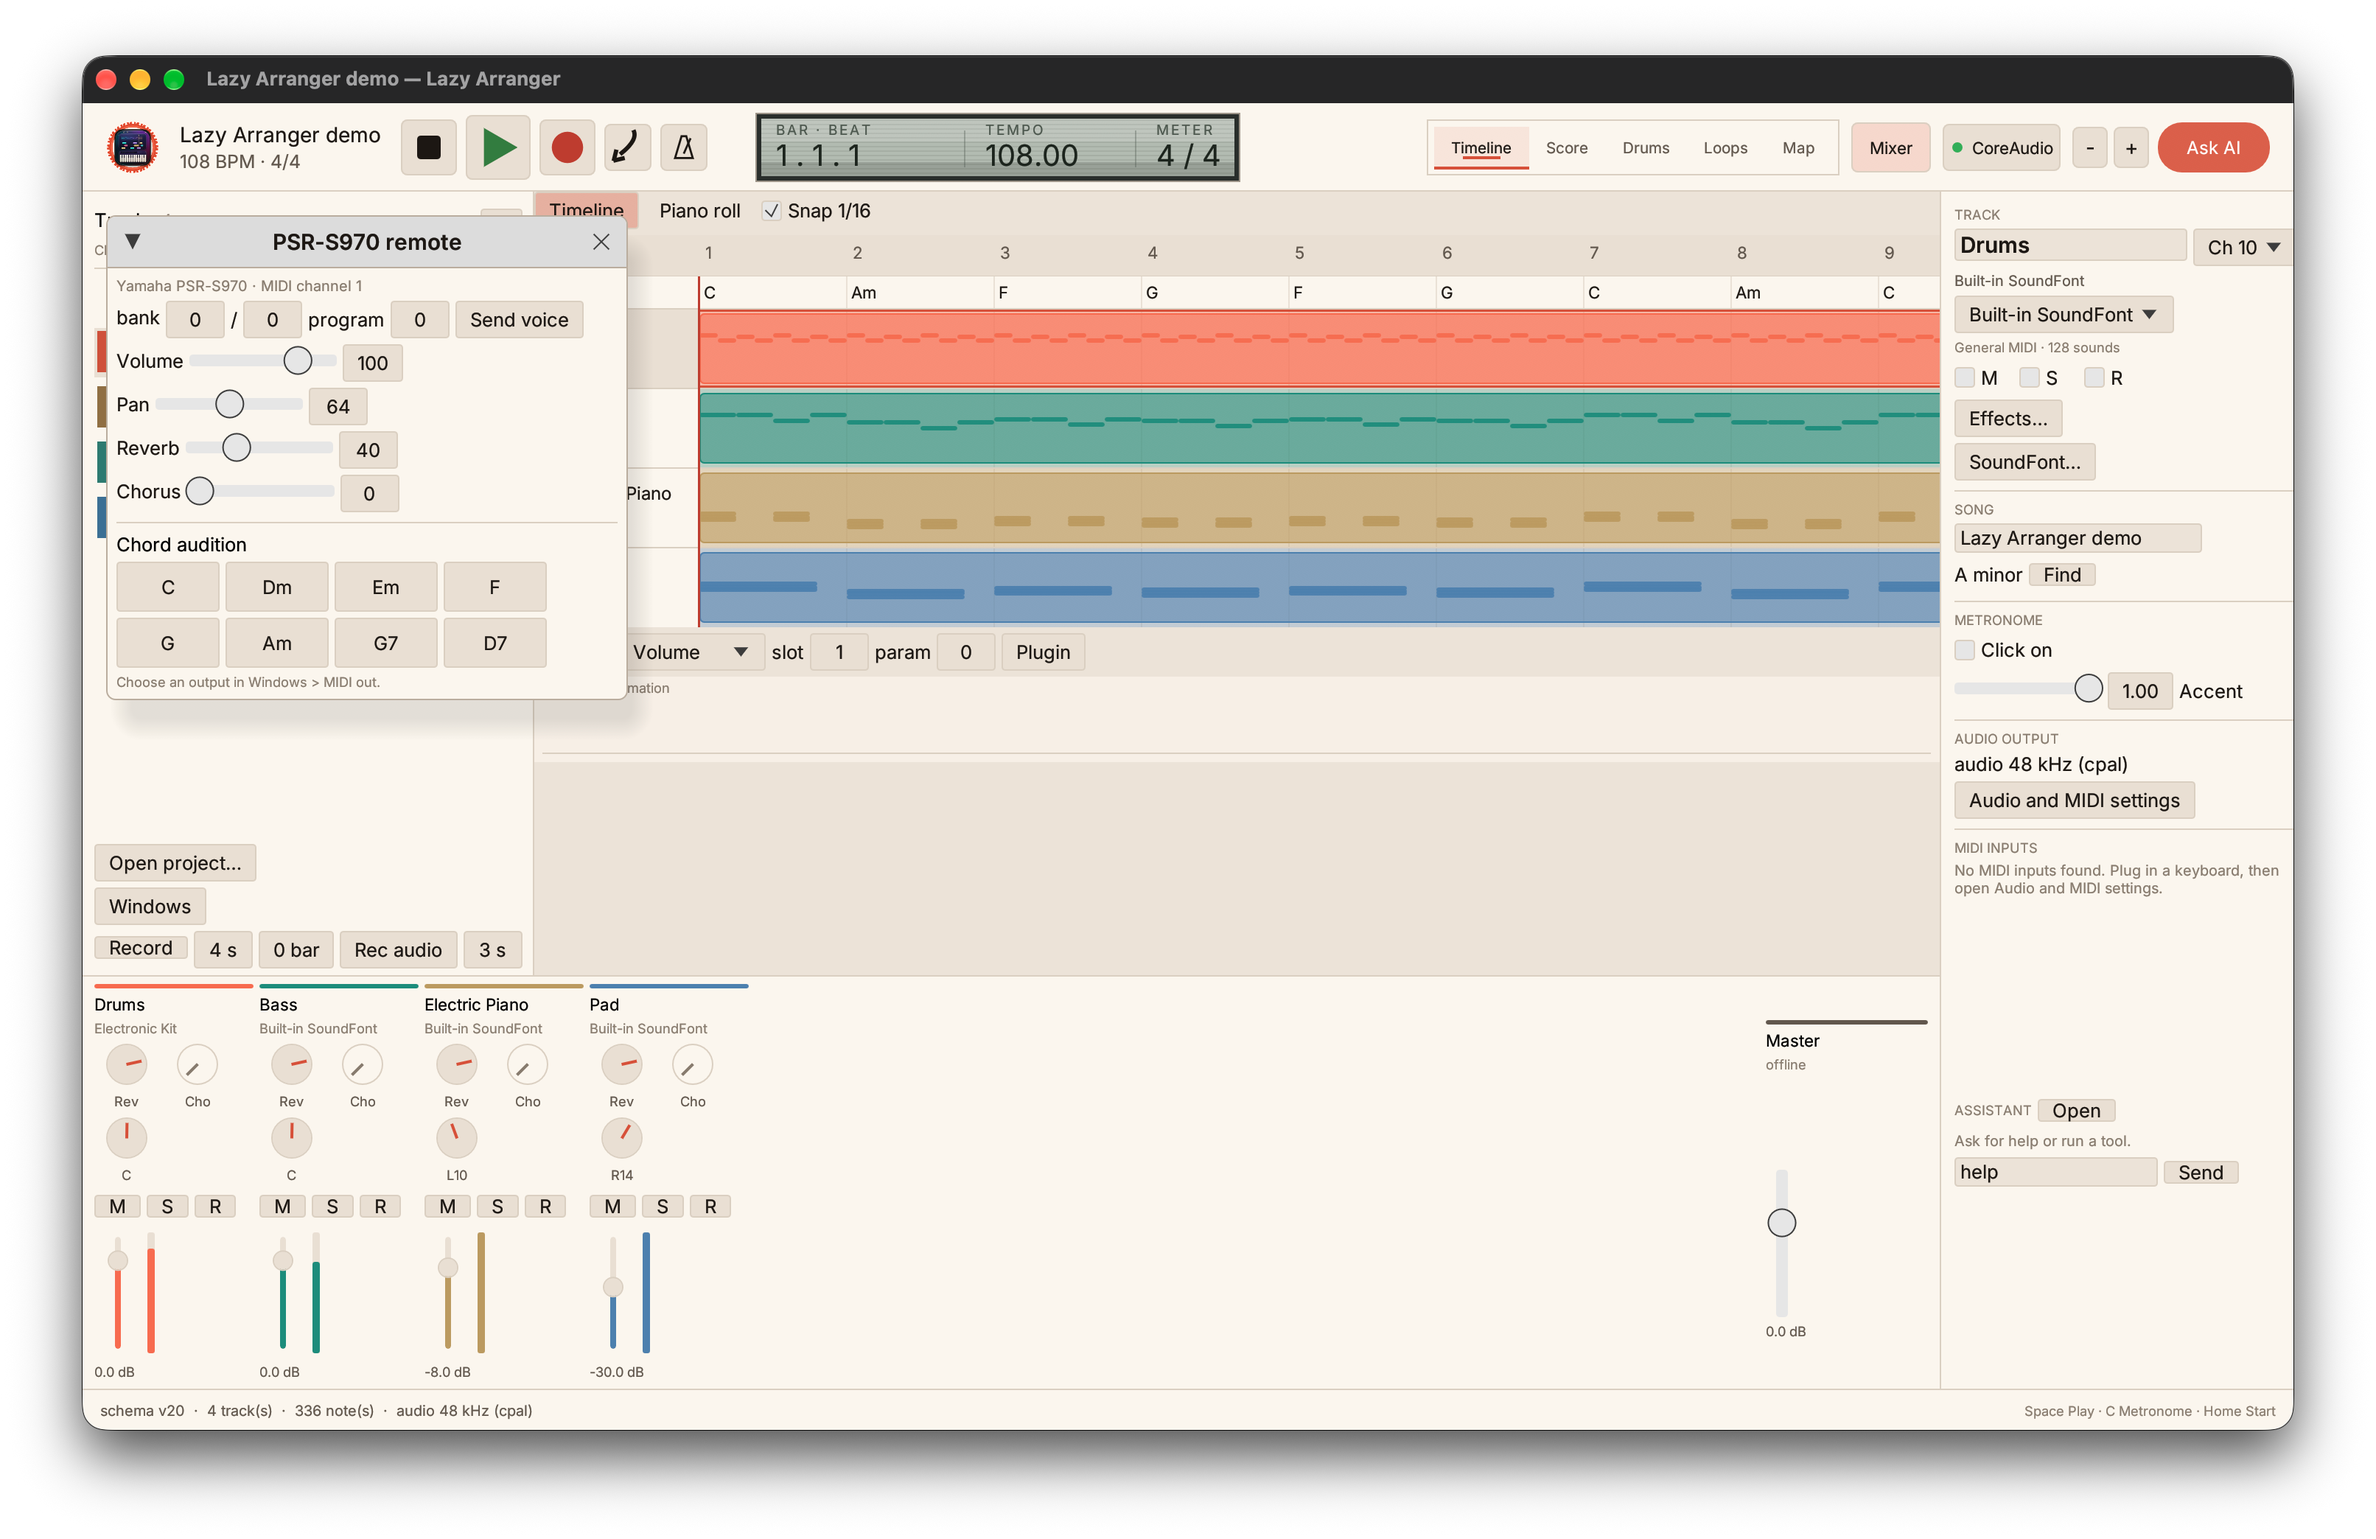
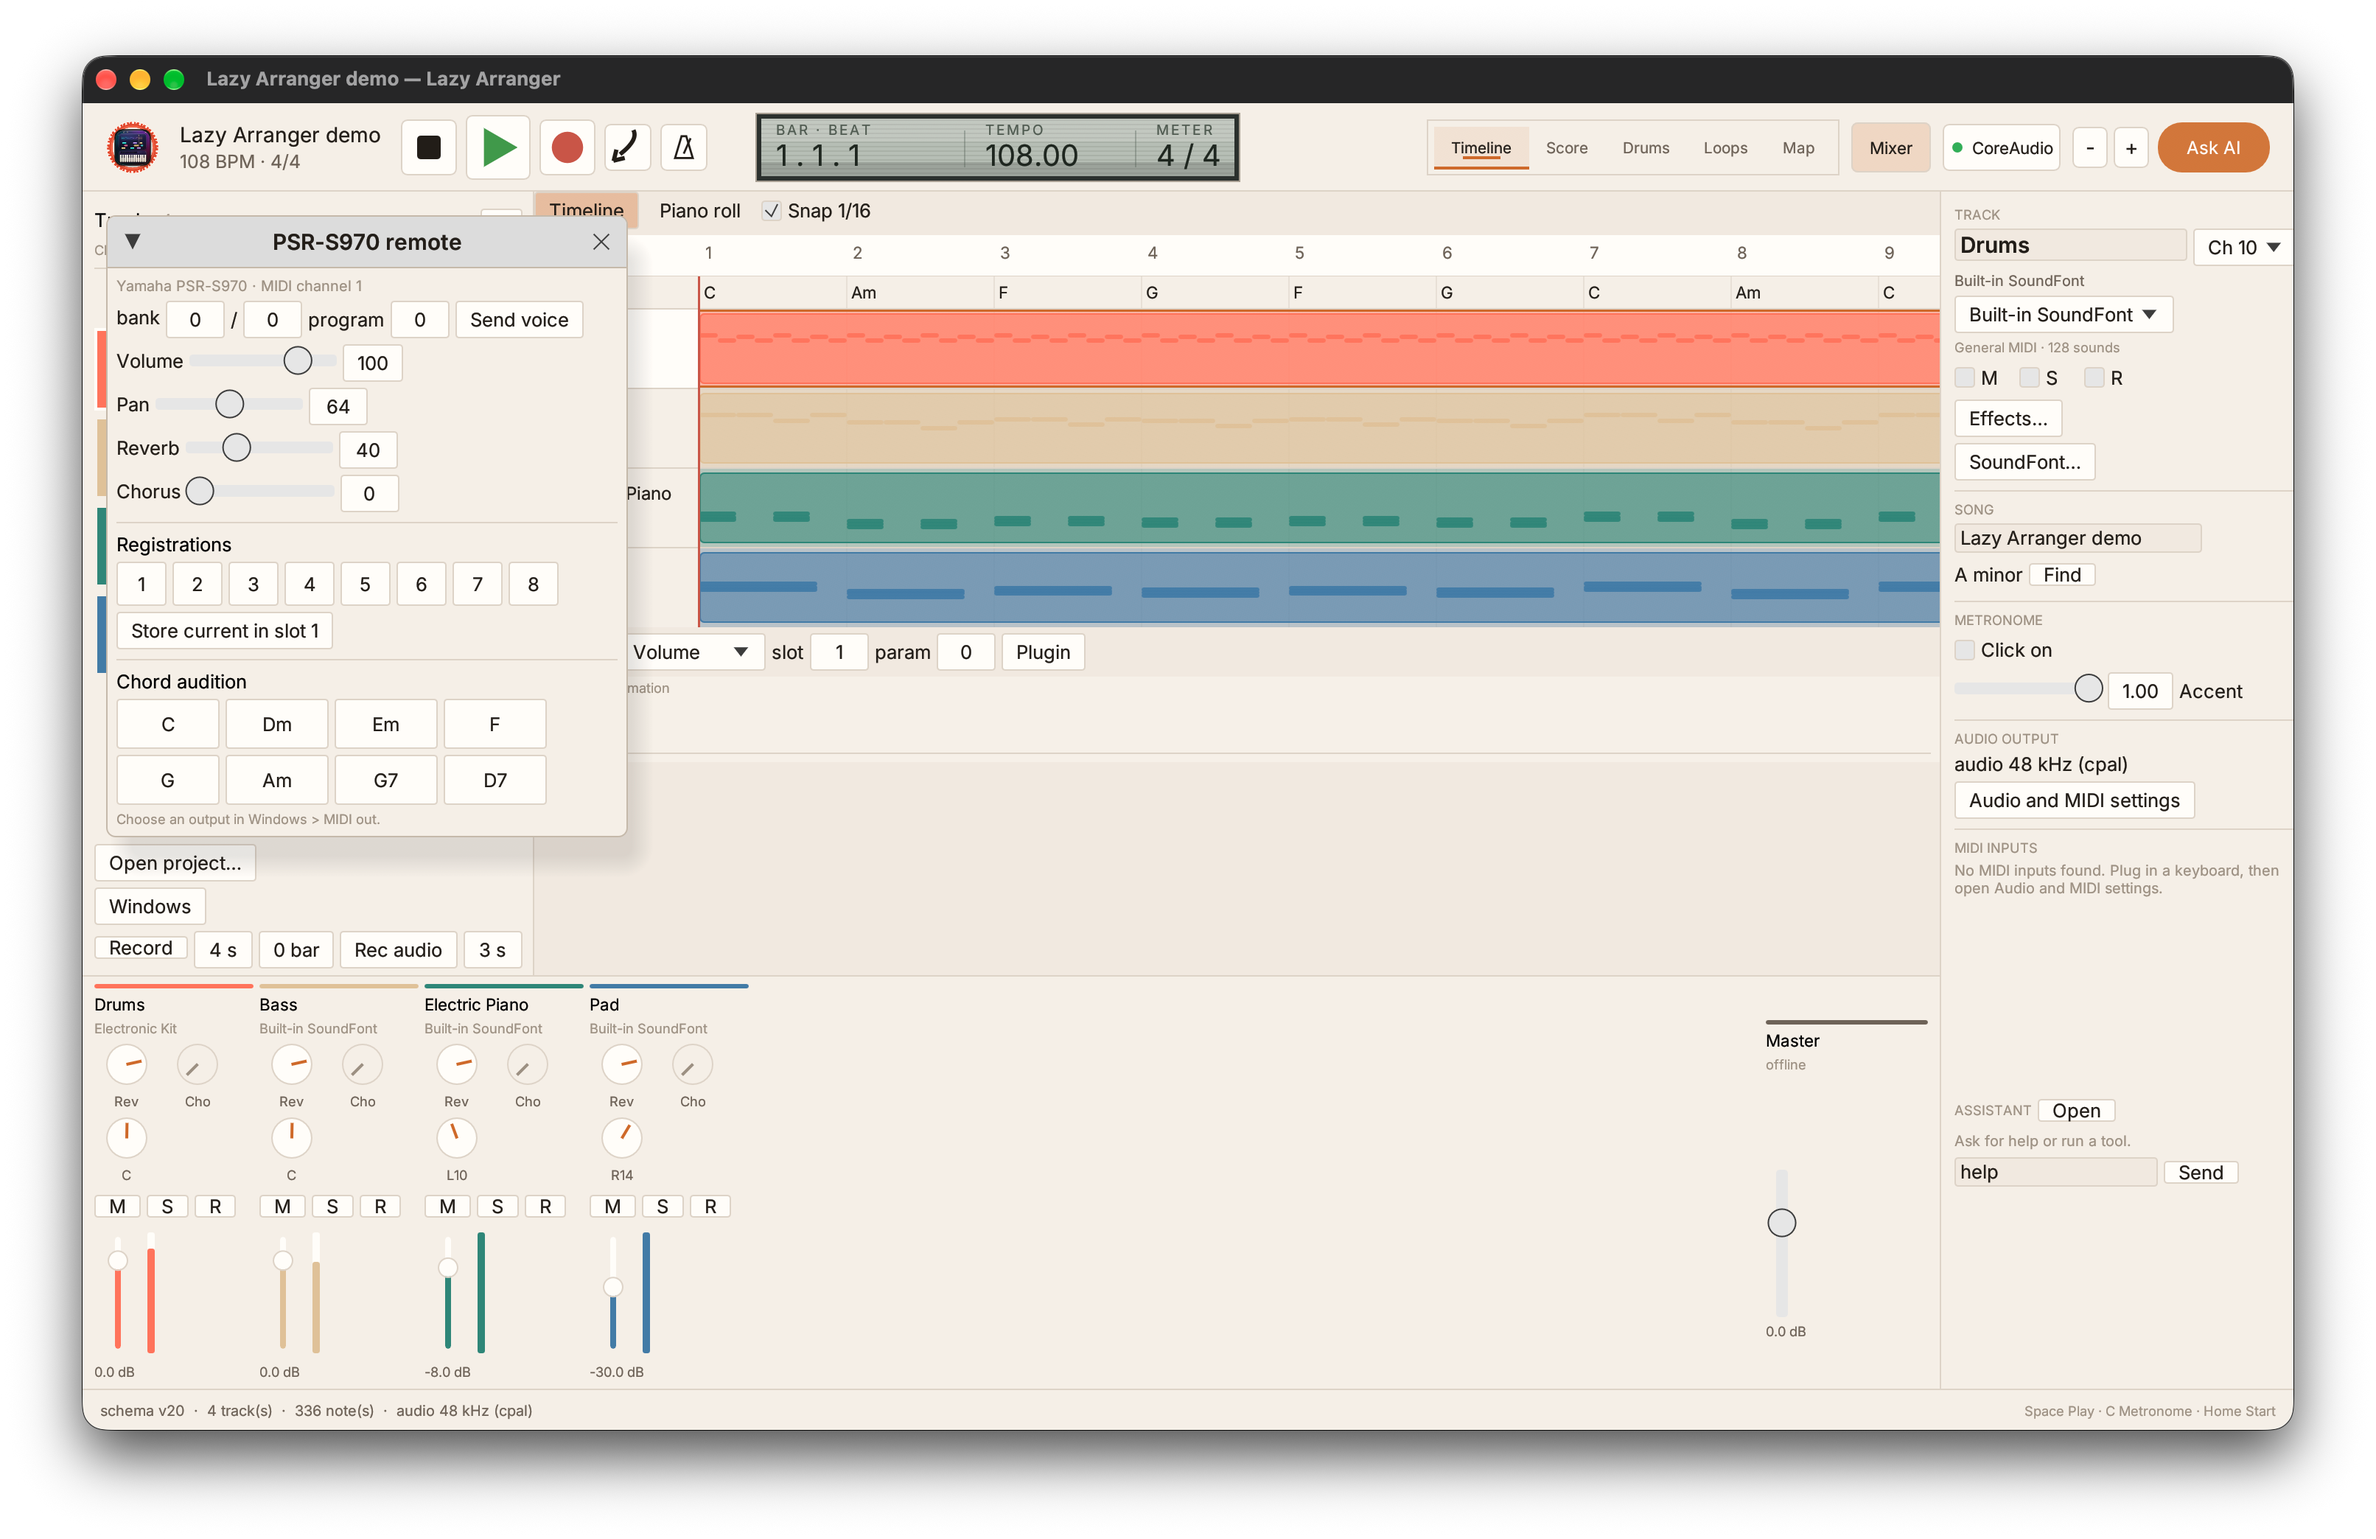
feat(psr): add eight registration slots
Stores/recalls voice, channel and CC state in memory; right-click a slot to store
and left-click to recall/send.

714 tests pass; clippy, fmt and rustdoc clean.

diff --git a/apps/desktop/src/app.rs b/apps/desktop/src/app.rs
@@ -114,6 +114,18 @@ impl AuEditorUnit {
 }
 
 /// One row of the track list, snapshotted before drawing so the borrow ends.
+#[derive(Clone, Copy, Debug, Default)]
+struct PsrRegistration {
+    channel: u8,
+    bank_msb: u8,
+    bank_lsb: u8,
+    program: u8,
+    volume: u8,
+    pan: u8,
+    reverb: u8,
+    chorus: u8,
+}
+
 struct Row {
     index: usize,
     id: TrackId,
@@ -627,6 +639,7 @@ pub struct ShellApp {
     psr_pan: u8,
     psr_reverb: u8,
     psr_chorus: u8,
+    psr_regs: [PsrRegistration; 8],
     midi_out_cc_value: u8,
     midi_out_bank_msb: u8,
     midi_out_bank_lsb: u8,
@@ -900,6 +913,7 @@ impl ShellApp {
             psr_pan: 64,
             psr_reverb: 40,
             psr_chorus: 0,
+            psr_regs: [PsrRegistration::default(); 8],
             midi_out_cc_value: 100,
             midi_out_bank_msb: 0,
             midi_out_bank_lsb: 0,
@@ -2924,6 +2938,77 @@ impl ShellApp {
         });
     }
 
+    fn psr_send_state(&mut self) {
+        let Ok(channel) = music_core::Channel::from_one_based(self.psr_channel) else {
+            return;
+        };
+        if let (Ok(msb), Ok(lsb)) = (
+            music_core::ControlNumber::new(0),
+            music_core::ControlNumber::new(32),
+        ) {
+            self.send_midi(music_core::MidiMessage::ControlChange {
+                channel,
+                controller: msb,
+                value: self.psr_bank_msb,
+            });
+            self.send_midi(music_core::MidiMessage::ControlChange {
+                channel,
+                controller: lsb,
+                value: self.psr_bank_lsb,
+            });
+        }
+        self.send_midi(music_core::MidiMessage::ProgramChange {
+            channel,
+            program: self.psr_program,
+        });
+        for (value, controller) in [
+            (self.psr_volume, 7_u8),
+            (self.psr_pan, 10),
+            (self.psr_reverb, 91),
+            (self.psr_chorus, 93),
+        ] {
+            if let Ok(control) = music_core::ControlNumber::new(controller) {
+                self.send_midi(music_core::MidiMessage::ControlChange {
+                    channel,
+                    controller: control,
+                    value,
+                });
+            }
+        }
+    }
+
+    fn psr_store(&mut self, index: usize) {
+        if index >= self.psr_regs.len() {
+            return;
+        }
+        self.psr_regs[index] = PsrRegistration {
+            channel: self.psr_channel,
+            bank_msb: self.psr_bank_msb,
+            bank_lsb: self.psr_bank_lsb,
+            program: self.psr_program,
+            volume: self.psr_volume,
+            pan: self.psr_pan,
+            reverb: self.psr_reverb,
+            chorus: self.psr_chorus,
+        };
+        self.status = Some(format!("PSR registration {}", index + 1));
+    }
+
+    fn psr_recall(&mut self, index: usize) {
+        let Some(reg) = self.psr_regs.get(index).copied() else {
+            return;
+        };
+        self.psr_channel = reg.channel.max(1);
+        self.psr_bank_msb = reg.bank_msb;
+        self.psr_bank_lsb = reg.bank_lsb;
+        self.psr_program = reg.program;
+        self.psr_volume = reg.volume;
+        self.psr_pan = reg.pan;
+        self.psr_reverb = reg.reverb;
+        self.psr_chorus = reg.chorus;
+        self.psr_send_state();
+    }
+
     fn psr_window(&mut self, context: &Context) {
         if !self.psr_open {
             return;
@@ -2998,6 +3083,28 @@ impl ShellApp {
                             });
                         }
                     }
+                }
+                ui.separator();
+                ui.label(egui::RichText::new("Registrations").strong());
+                ui.horizontal(|ui| {
+                    for index in 0..8 {
+                        let response =
+                            ui.add_sized([34.0, 30.0], egui::Button::new((index + 1).to_string()));
+                        if response.clicked() {
+                            self.psr_recall(index);
+                        }
+                        if response.secondary_clicked() {
+                            self.psr_store(index);
+                        }
+                        response.on_hover_text("Click to recall; right-click to store");
+                    }
+                });
+                if ui
+                    .button("Store current in slot 1")
+                    .on_hover_text("Right-click a number above to store in that slot")
+                    .clicked()
+                {
+                    self.psr_store(0);
                 }
                 ui.separator();
                 ui.label(egui::RichText::new("Chord audition").strong());

diff --git a/docs/audit/cpp-features-crosscheck.md b/docs/audit/cpp-features-crosscheck.md
@@ -30,7 +30,7 @@ section below is a row, so nothing is skipped. Status: **verified**,
 | 21 | MIDI devices and profiles | partial | One built-in PSR-S970 voice subset plus a YAML-subset loader (id, name, voices, banks, drum kits) with validation and keyword matching (`device-profile` resolved Finger Bass to 33); port enumeration, live input, CLI record/echo. Bank and drum-kit entries drive `export-keyboard --profile`: bank select MSB/LSB is written before each program, drums use the kit program and bank (audit: msb [63,0,0,0], lsb [0,1,1,1]). The Controllers window keeps the last 16 decoded note/CC/program/bend messages; no other devices or profile overrides |
 | 22 | Synth sound editors (D-05, XioSynth, S970 XG, L6max), sysex dumps | partial | A per-track synth patch (sine/saw/square/triangle, attack, decay, sustain, release, brightness) in schema v14, honoured by the render, edited through one undoable command, and exposed by a Synth patch window with Apply/Default/Clear (capture `docs/audit/synth-patch.png`). A generic Yamaha parameter-change builder with the 7-bit checksum and an XG System On dump (`sysex-xg-on`, 10 bytes written). No device-specific panels (D-05, XioSynth, S970 XG) or patch dumps |
 | 23 | Controller pages, MIDI Map, MIDI Learn, channel check | partial | MIDI map model with text persistence, learn capture, CLI bind/show, live application of play/stop/undo/scene/fader/pad, a MIDI map window that chooses an action, learns the next note/CC, saves automatically and clears bindings (with inline hints), `midi-channel-check` sends note-on/off on a chosen channel, and a Controllers window lists CC bindings with live values, starts a learn session and saves it. No MIDI ports were available here, so live values and the send remain hardware-unverified |
-| 24 | PSR-S970 tools | partial | Song export with setup bar, program, volume, pan, chord markers, lyrics and drums on channel 10, plus a byte-level audit that re-parses the file; the demo exported 5 tracks, 4 programs/volumes/pans, 16 chord markers and 128 drum notes. Numbered style catalog and `style-by-number` rendering. A MIDI out window sends program changes, bank select, CC, notes, chords, panic and start/continue/stop to a chosen output, persists the output choice (`docs/audit/midi-out.png`); a PSR-S970 remote sends voice bank/program, volume, pan, reverb, chorus and chord auditions (`docs/audit/psr-remote.png`); no registration memory, audition queue or hardware verification |
+| 24 | PSR-S970 tools | partial | Song export with setup bar, program, volume, pan, chord markers, lyrics and drums on channel 10, plus a byte-level audit that re-parses the file; the demo exported 5 tracks, 4 programs/volumes/pans, 16 chord markers and 128 drum notes. Numbered style catalog and `style-by-number` rendering. A MIDI out window sends program changes, bank select, CC, notes, chords, panic and start/continue/stop to a chosen output, persists the output choice (`docs/audit/midi-out.png`); a PSR-S970 remote sends voice bank/program, volume, pan, reverb, chorus and chord auditions (`docs/audit/psr-remote.png`); eight in-memory registration slots recall/store voice and CC state; no audition queue or hardware verification |
 | 25 | Music Finder and Playlists | partial | JSON, CSV, TSV and MFD import (1,653-record real file), CLI, and an L-key Library window that loads any of those, searches title/detail, applies an entry's tempo and imports the row's style through the catalog (setting or ARRANGER_STYLE_LIBRARY), inserting its tracks with fresh ids and a prefix. Playlist rows are listed but not opened; `playlist-from-csv` converts a Music Finder CSV into a Yamaha playlist TSV (2 entries written with paths and REGIST). A real import was run through `library-import`: 1 track and 1,926 notes from ABBA Fernando; the ignored integration test passes when ARRANGER_STYLE_LIBRARY is set |
 | 26 | Zoom L6max mixer page and import | partial | `audio::l6max` scans a folder of takes, reads headers, flags the L6max's 32-bit float recordings, reports problems and imports each take as an audio track at a start tick; `l6max-import` did so for two synthetic takes (3.20 s, one float), and the shell Import L6max mode scans a folder and adds each WAV at the playhead. No device project-file parsing, mixer page or transport control; Mixer L6max panel scans a folder and imports takes as audio tracks |
 | 27 | AI chat with subscriptions/keys, one-undo-step changes, proposal cards | partial | A local assistant panel and command layer (`mcp::assistant`) parses help/song/undo and `tool <name> {json}`, reaches any of the current 97 tools through `tool`, logs replies and marks the project dirty only for changing calls; each tool call is one undo step. No model, network, subscriptions or keys, no proposal cards |

diff --git a/docs/audit/final-status.md b/docs/audit/final-status.md
@@ -126,3 +126,4 @@ For the clef layout, choose either four measures per system without clefs
 - Audio output device can be selected and is used by the playback player.
 - Audio settings choose output device and fixed buffer; inspector shows sample rate/frames/latency when playing (`docs/audit/audio-settings.png`).
 - Track rows use the taller C++ spacing (`docs/audit/ui-track-rows.png`).
+- PSR panel has eight in-memory registration slots (right-click stores); hardware unverified.
